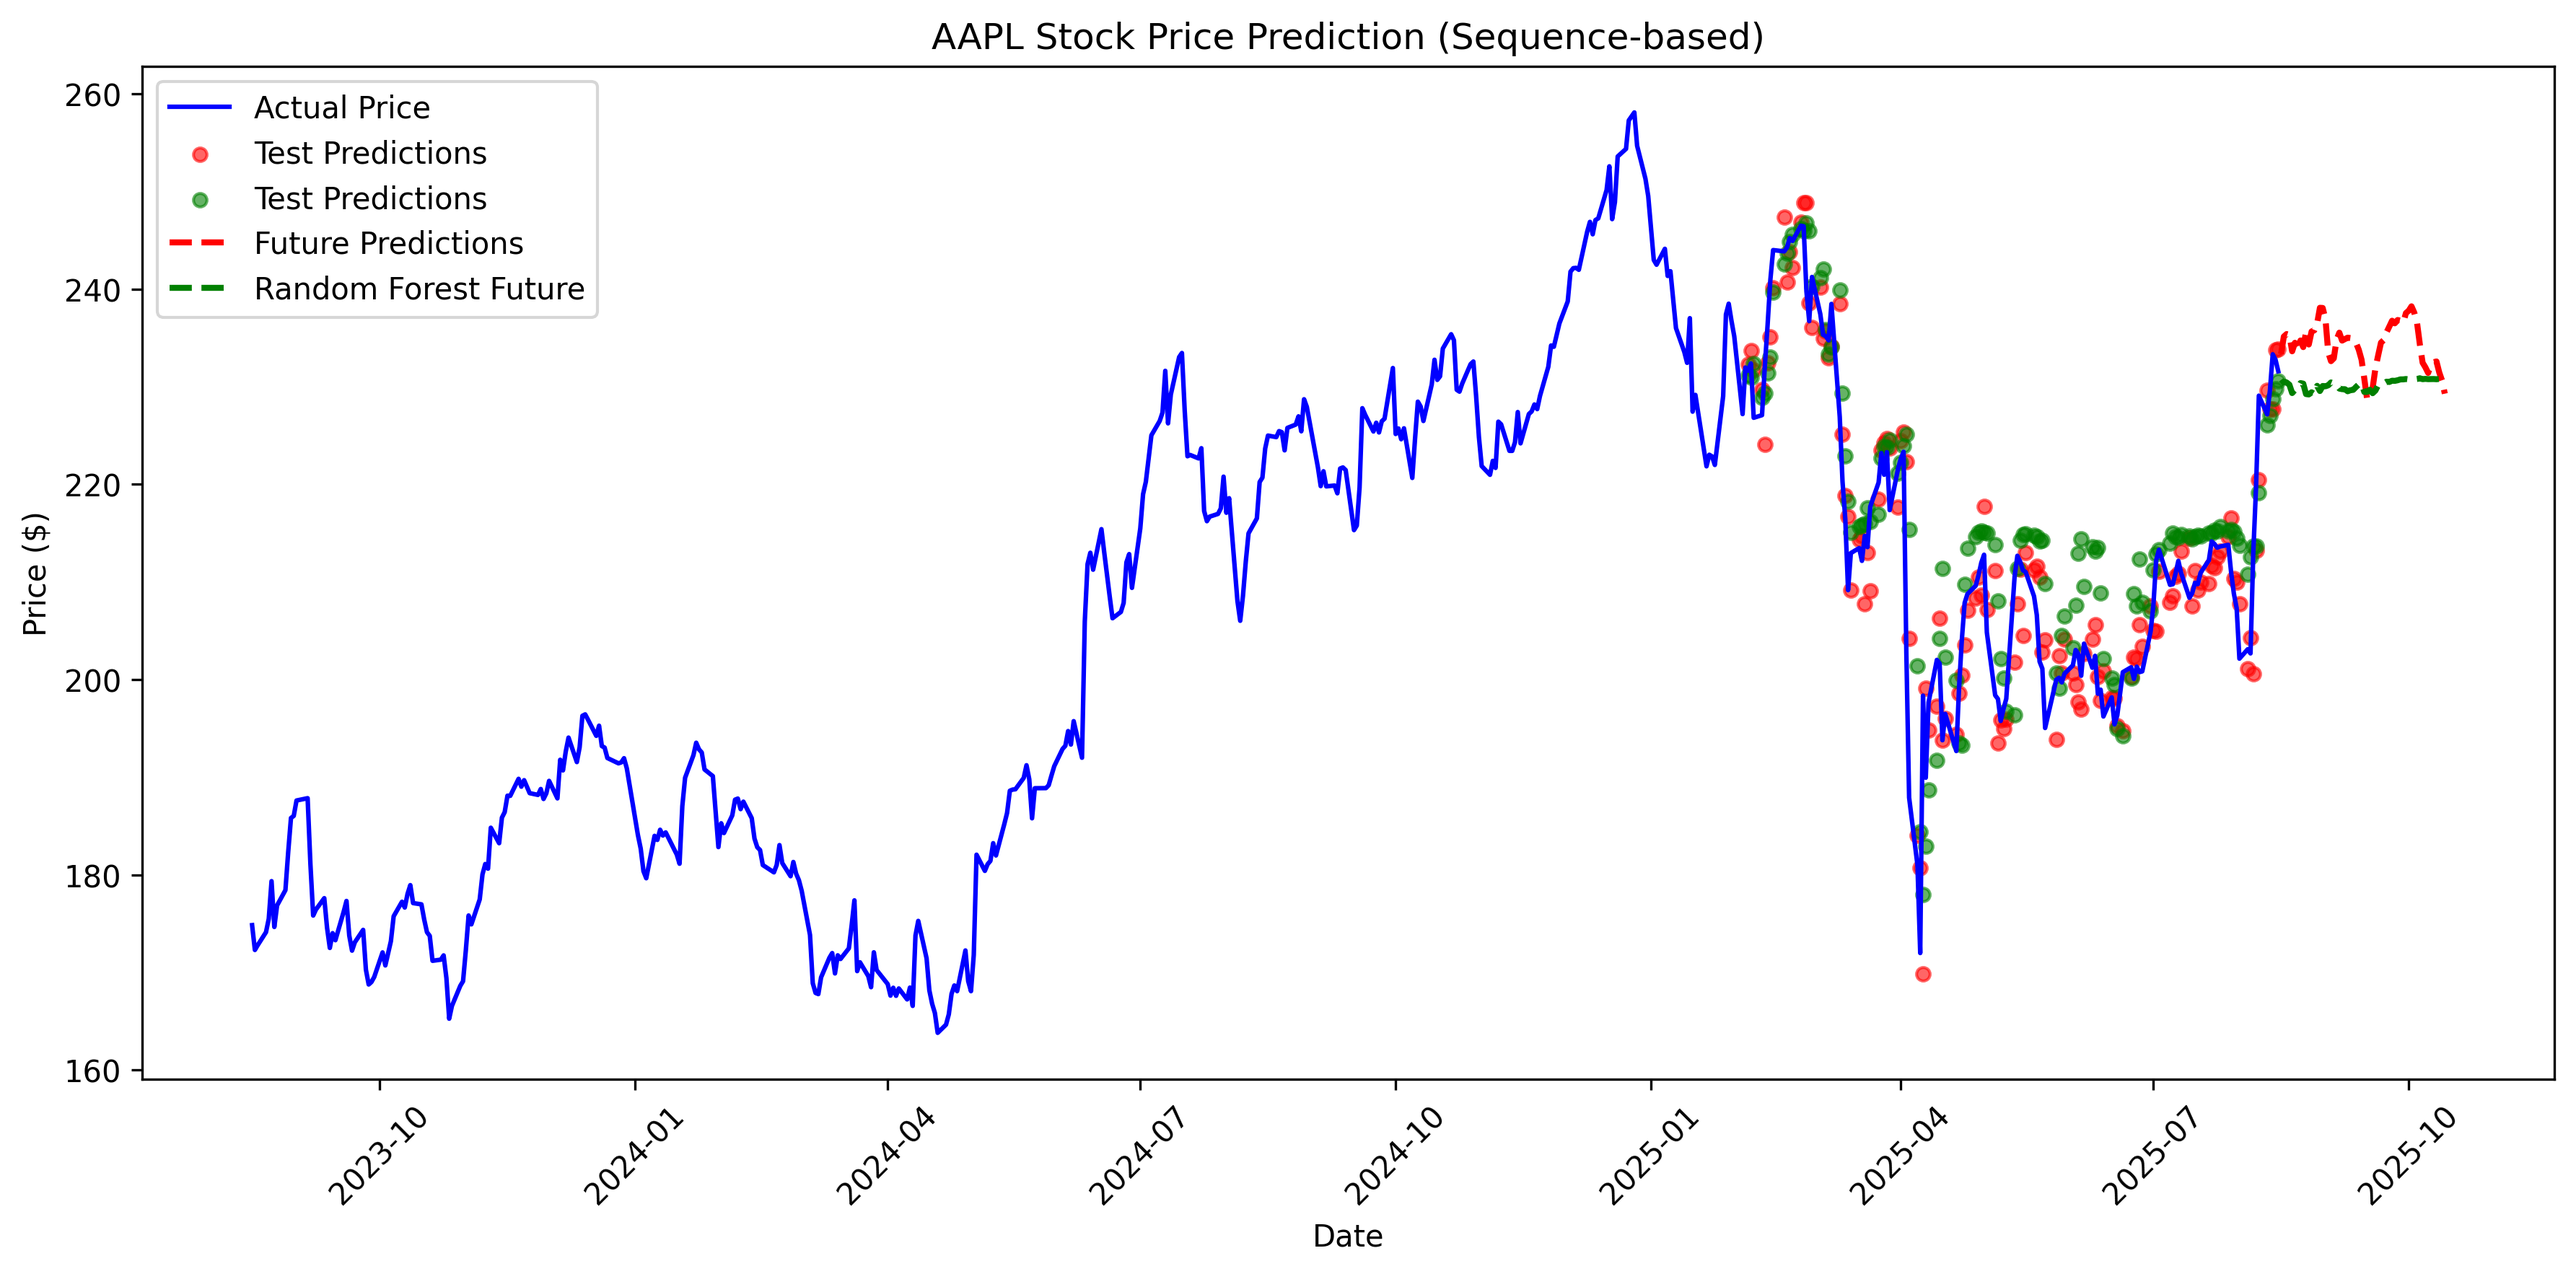
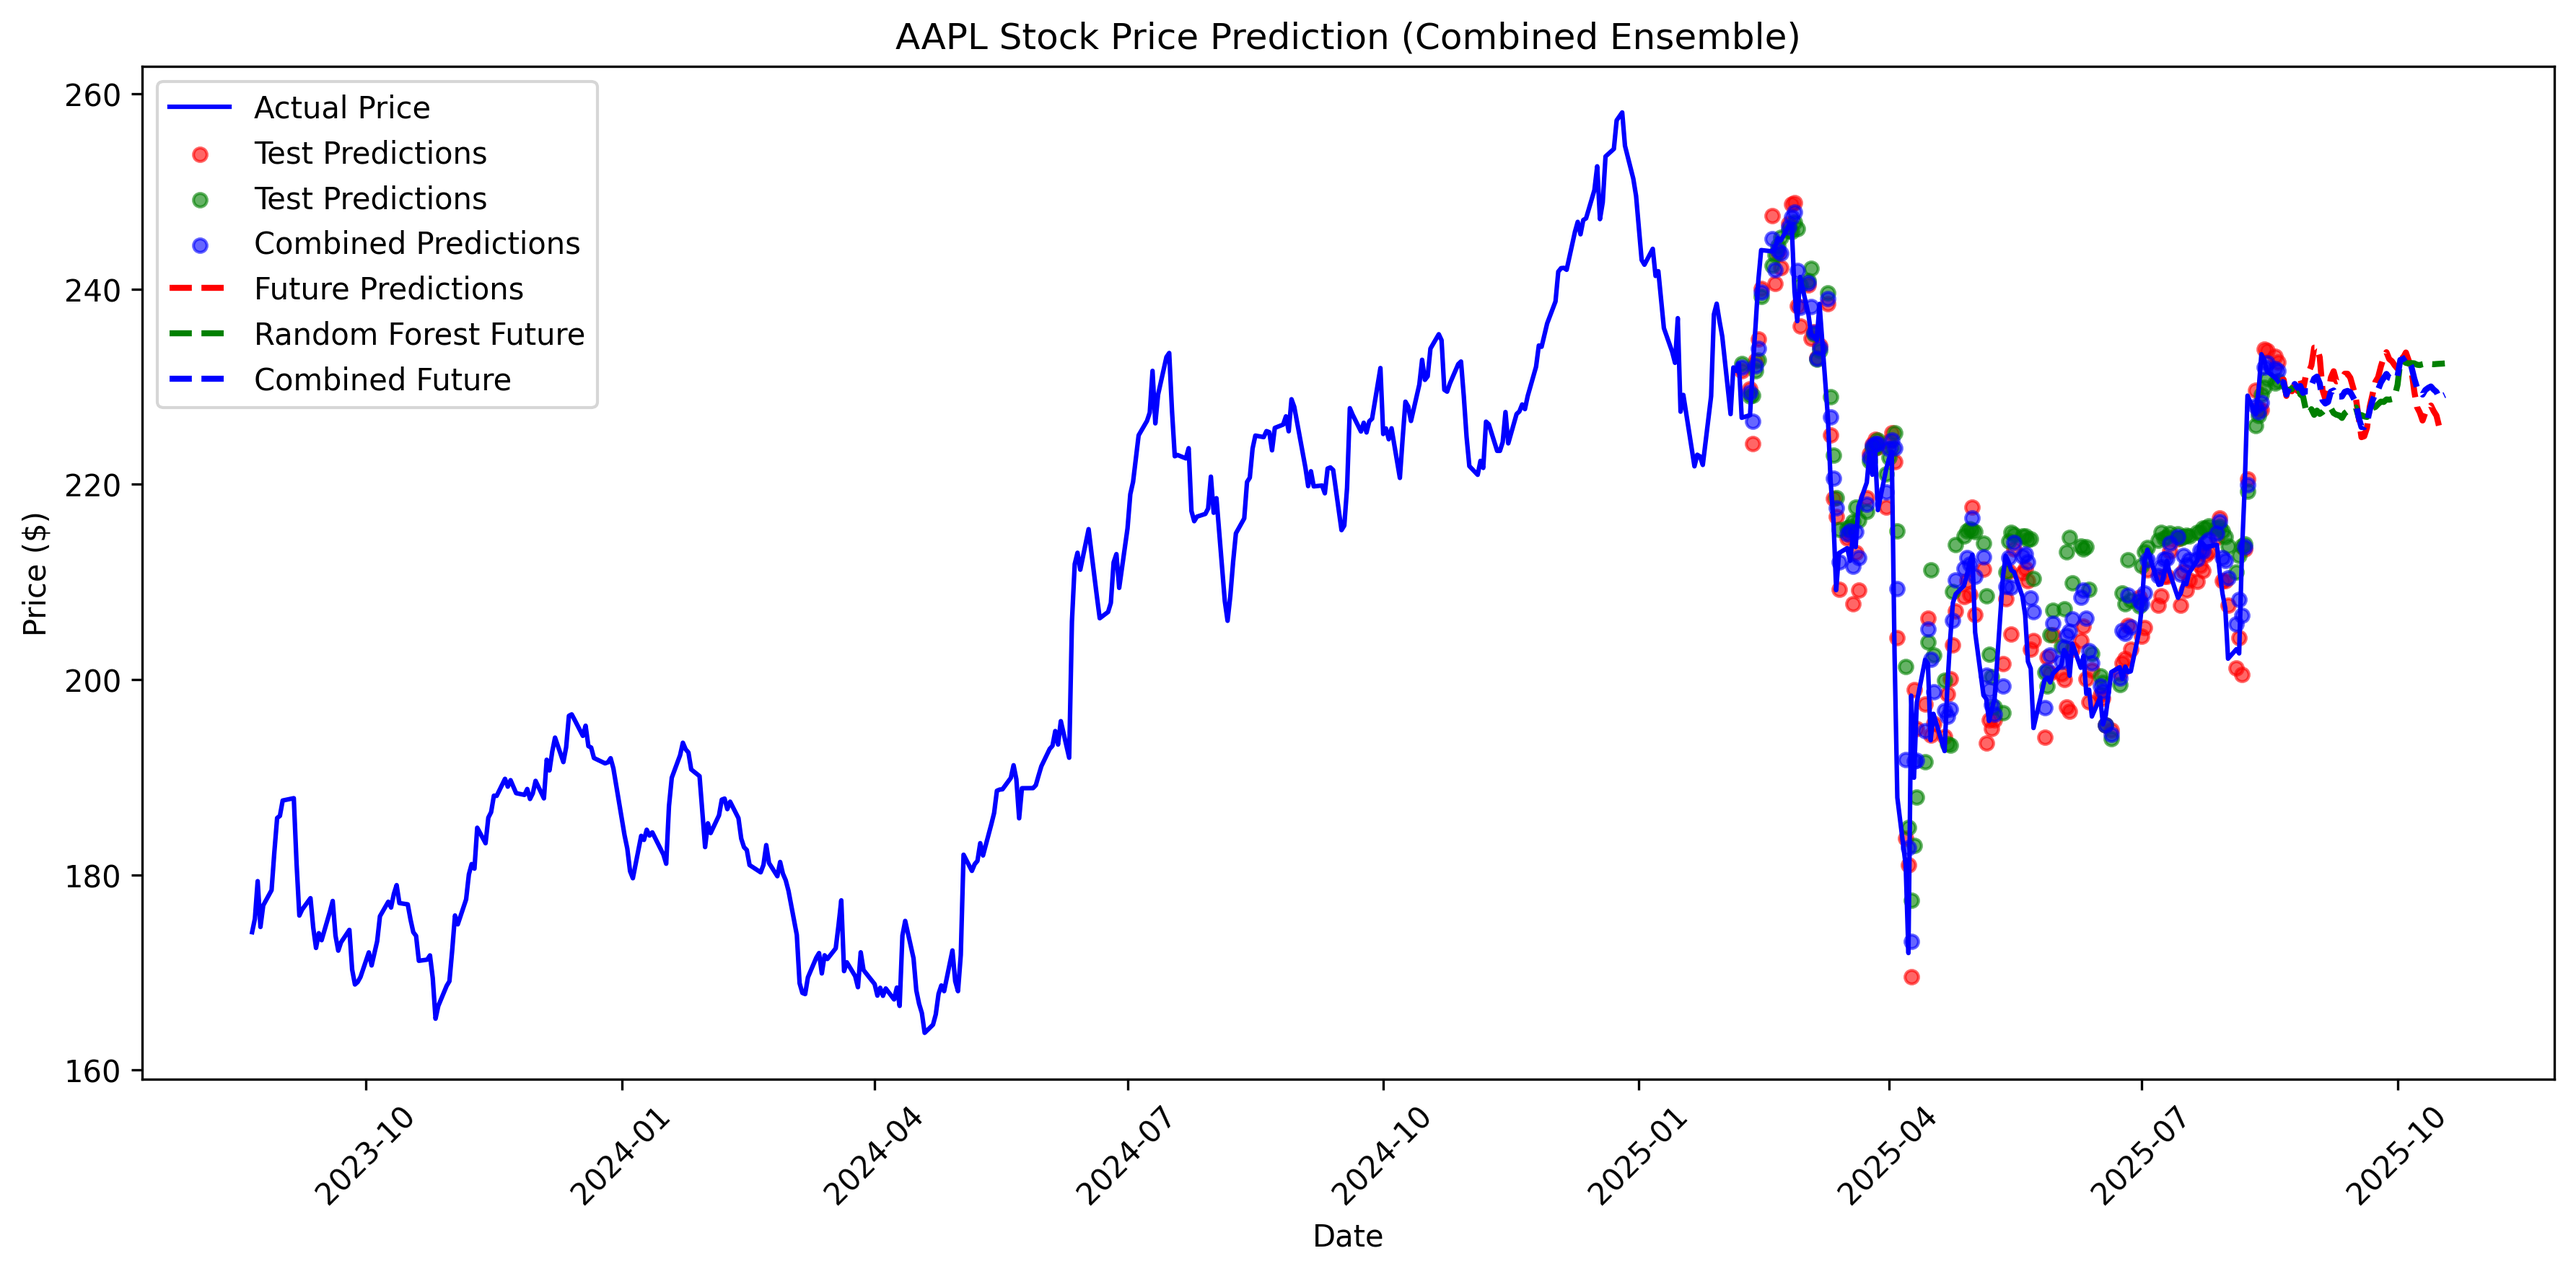
Combination of models

diff --git a/main.py b/main.py
@@ -92,6 +92,34 @@ rfModel = search.best_estimator_
 
 yPrediction = linearModel.predict(xTestFlat)
 rfPrediction = rfModel.predict(rfXTest)
+
+
+
+yPrediction = yPrediction.flatten()
+rfPrediction = rfPrediction.flatten()
+
+linearR2 = linearModel.score(xTestFlat, yTest)
+rfR2 = rfModel.score(rfXTest, rfYTest)
+
+totalR2 = linearR2 + rfR2
+
+if totalR2 > 0:
+    linearWeight = linearR2 / totalR2
+    rfWeight = rfR2 / totalR2
+else:
+    linearWeight = 0.5
+    rfWeight = 0.5
+ 
+
+minLength = min(len(yPrediction), len(rfPrediction))
+
+yPrediction = yPrediction[:minLength]
+rfPrediction = rfPrediction[:minLength]
+yTest = yTest[:minLength]
+
+combinedPrediction = linearWeight * yPrediction + rfWeight * rfPrediction
+
+
 lastSequence = y[-length:].copy()
 futurePrediction = []
 
@@ -114,6 +142,8 @@ for i in range(futureAmount):
     newRow[3] = predRF[0] 
     rfLastSequence = np.append(rfLastSequence[1:], [newRow], axis=0)
 
+combinedFuturePrediction = [linearWeight * linear + rfWeight * rf for linear, rf in zip(futurePrediction, rfFuturePrediction)]
+
 plt.figure(figsize=(12, 6))
 plt.plot(stock.index, stock['Close'], label='Actual Price', color='blue')
 
@@ -122,24 +152,30 @@ startIndex = length + splitIndex
 endIndex = startIndex + len(yPrediction)
 if endIndex <= len(stock.index):
     test_dates = stock.index[startIndex:endIndex]
+
+    test_dates = test_dates[:minLength]
+
     plt.scatter(test_dates, yPrediction, color='red', label='Test Predictions', alpha=0.6, s=20)
     plt.scatter(test_dates, rfPrediction, color='green', label='Test Predictions', alpha=0.6, s=20)
-
-
-
-
+    plt.scatter(test_dates, combinedPrediction, color='blue', label='Combined Predictions', alpha=0.6, s=20)
 
 futureDates = pd.date_range(start=stock.index[-1] + pd.Timedelta(days=1), periods=futureAmount, freq='D')
 plt.plot(futureDates, futurePrediction, 'r--', label=f'Future Predictions', linewidth=2)
 plt.plot(futureDates, rfFuturePrediction, 'g--', label=f'Random Forest Future', linewidth=2)
+plt.plot(futureDates, combinedFuturePrediction, 'b--', label=f'Combined Future', linewidth=2)
 
-plt.title(f'{ticker} Stock Price Prediction (Sequence-based)')
+
+plt.title(f'{ticker} Stock Price Prediction (Combined Ensemble)')
 plt.xlabel('Date')
 plt.ylabel('Price ($)')
 plt.legend()
 plt.xticks(rotation=45)
 plt.tight_layout()
 plt.savefig('stock_prediction.png', dpi=300, bbox_inches='tight')
-print(f"Linear R^2: {linearModel.score(xTestFlat, yTest)}")
-print(f"RF R^2: {rfModel.score(rfXTest, rfYTest)}")
+
+
+
+print(f"Linear R^2: {linearR2}")
+print(f"RF R^2: {rfR2}")
+print(f"Linear: {linearWeight:.3f}, RF: {rfWeight:.3f}")
 plt.show()
